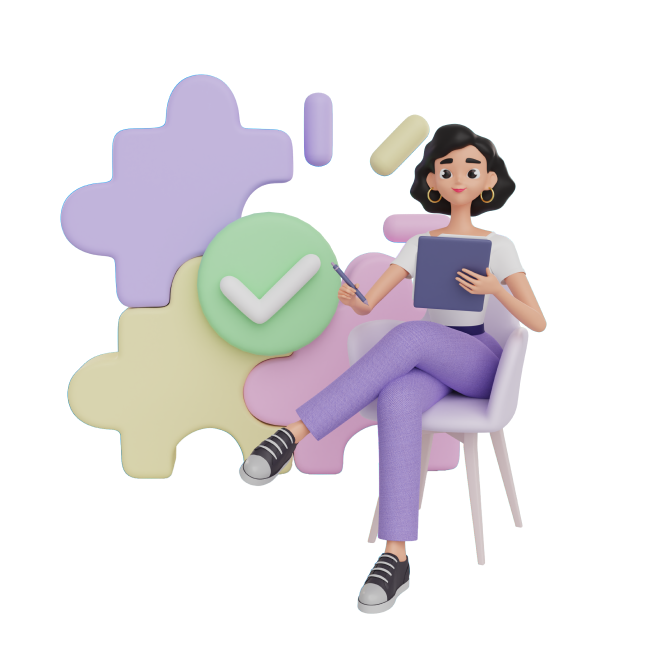
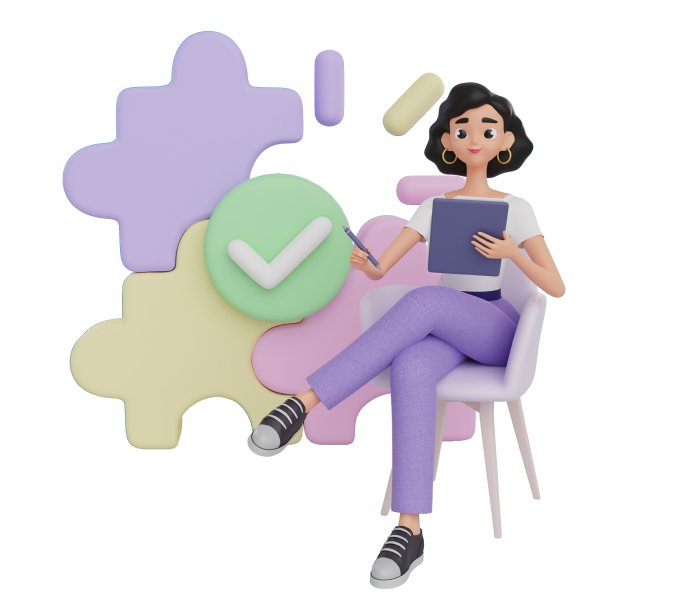
update

diff --git a/src/components/hero/page.js b/src/components/hero/page.js
@@ -17,12 +17,12 @@ export default function Hero() {
             getlinked Te
             <span>
               c
-              <img src="/bolb.svg" alt="omo" />
+              <img src="/bolb.png" alt="omo" />
             </span>
             h Hackathon&nbsp;
             <span>
-              1.0<img src="/chain.svg" alt="omo" />
-             <img src="/spark.svg" alt="omo" />
+              1.0<img src="/chain.png" alt="omo" />
+             <img src="/spark.png" alt="omo" />
             </span>
           </h1>
           <p>

diff --git a/src/components/section1/page.js b/src/components/section1/page.js
@@ -5,13 +5,7 @@ export default function Section1() {
   return (
     <div className={styles.Section1}>
       <div className={styles.section__img}>
-        <Image
-          src="/bolbidea.svg"
-          alt="bolb idea illustration"
-          width={405}
-          height={405}
-          priority
-        />
+         <img src="/bolbidea.svg" alt="omo" />
       </div>
       <div className={styles.section__text}>
         <h1>Introduction to getlinked <span>techHackathon 1.0</span> </h1>

diff --git a/src/components/register-button/page.module.css b/src/components/register-button/page.module.css
@@ -4,7 +4,7 @@
     min-width: 40vw;
     padding: 0.8rem 0 0.8rem;
     border: none;
-    color: white;
+    color: white; font-size: 1.2rem;
     border-radius: 5px;
     font-family: var(--font-montserrat);
     background: linear-gradient(
@@ -23,7 +23,7 @@
     min-width: 16vw;
     padding: 0.8rem 0 0.8rem;
     border: none;
-    color: white;
+    color: white; font-size: 1.3rem;
     border-radius: 5px;
     font-family: var(--font-montserrat);
     background: linear-gradient(

diff --git a/src/components/section3/page.js b/src/components/section3/page.js
@@ -6,13 +6,7 @@ export default function Section3() {
   return (
     <div className={styles.Section3}>
       <div className={styles.section__img}>
-        <Image
-          src="/man-woman.svg"
-          alt="bolb idea illustration"
-          width={405}
-          height={405}
-          priority
-        />
+        <img src="/man-woman.png" alt="omo" />
       </div>
       <div className={styles.section__text}>
         <h1>

diff --git a/src/components/section4/page.js b/src/components/section4/page.js
@@ -14,13 +14,7 @@ export default function Section4() {
         </p>
       </div>
       <div className={styles.section__img}>
-        <Image
-          src="/thinking-man.svg"
-          alt="omo"
-          width={405}
-          height={405}
-          priority
-        />
+         <img src="/thinking-man.svg" alt="omo" />
       </div>
     </div>
   );

diff --git a/src/components/section2/page.js b/src/components/section2/page.js
@@ -18,13 +18,7 @@ export default function Section2() {
         </p>
       </div>
       <div className={styles.section__img}>
-        <Image
-          src="/lady-sit.svg"
-          alt="omo"
-          width={405}
-          height={405}
-          priority
-        />
+         <img src="/Lady-sit.png" alt="omo" />
       </div>
     </div>
   );

diff --git a/src/components/hero/countdown.js b/src/components/hero/countdown.js
@@ -38,7 +38,7 @@ function CountdownTimer() {
 
   return (
     <div>
-      <h2 style={{ margin: '5vh 0 10vh 0', fontSize: '4vw' }} >{countdown}</h2>
+      <h2 style={{ margin: '5vh 0 5vh 0'}} >{countdown}</h2>
     </div>
   );
 }

diff --git a/src/components/section3/page.module.css b/src/components/section3/page.module.css
@@ -90,7 +90,7 @@
      margin: auto 0 auto;
   }
   .section__img img {
-    width: 50vw;
+    width: 40vw;
   }
   .section__text {
     margin: auto 0 auto;

diff --git a/src/components/section1/page.module.css b/src/components/section1/page.module.css
@@ -81,7 +81,7 @@
   .section__img {
   }
   .section__img img {
-    width: 50vw;
+    width: 40vw;
   }
   .section__text {
     margin: auto 0 auto;

diff --git a/src/components/section2/page.module.css b/src/components/section2/page.module.css
@@ -85,6 +85,7 @@
   }
   .section__img img {
    margin: 0 0 0 5rem;
+   width: 37vw;
   }
   .section__text {
     margin: auto 0 auto;

diff --git a/src/components/section4/page.module.css b/src/components/section4/page.module.css
@@ -86,6 +86,7 @@
   }
   .section__img img {
    margin: 0 0 0 5rem;
+   width: 40vw;
   }
   .section__text {
     margin: auto 0 auto;
